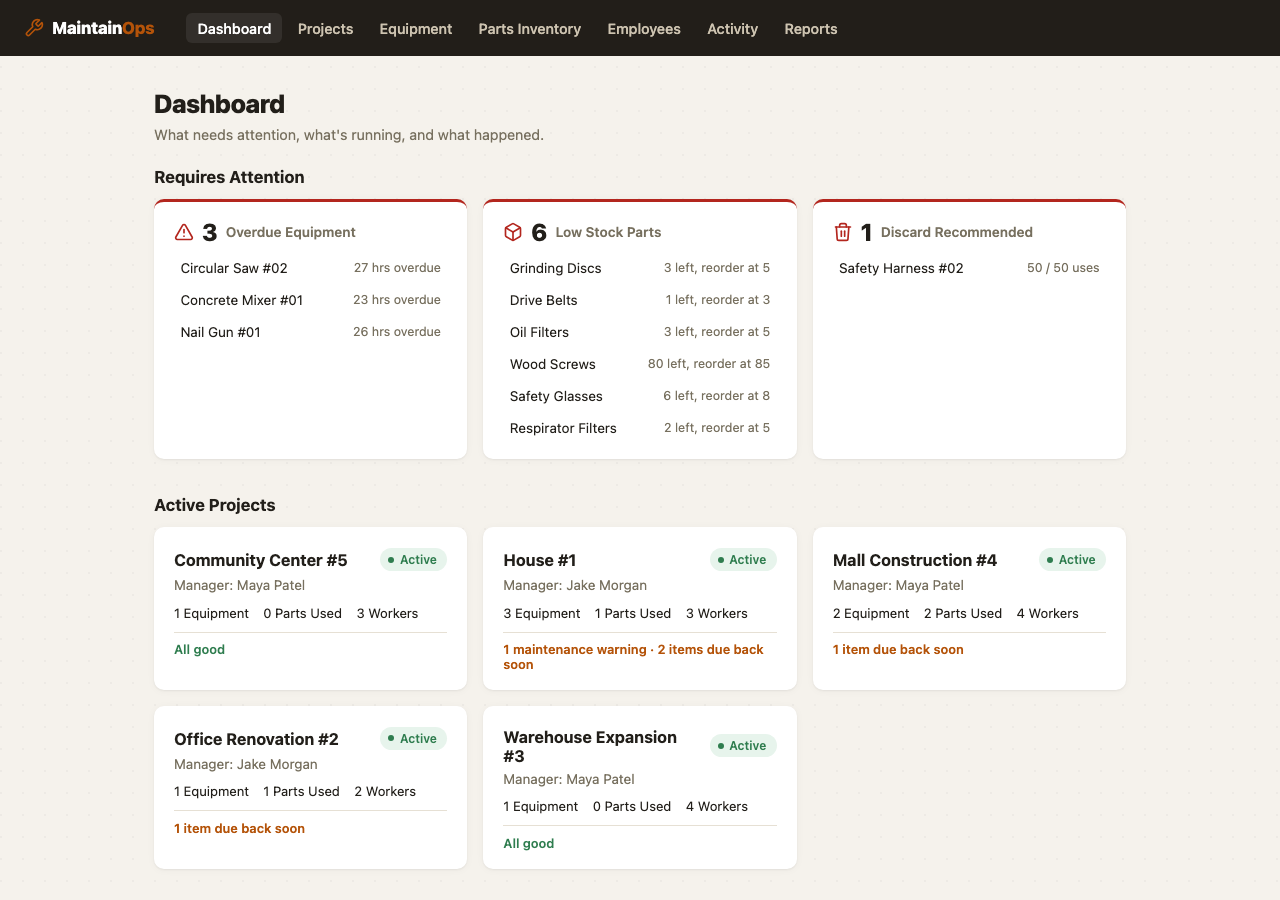
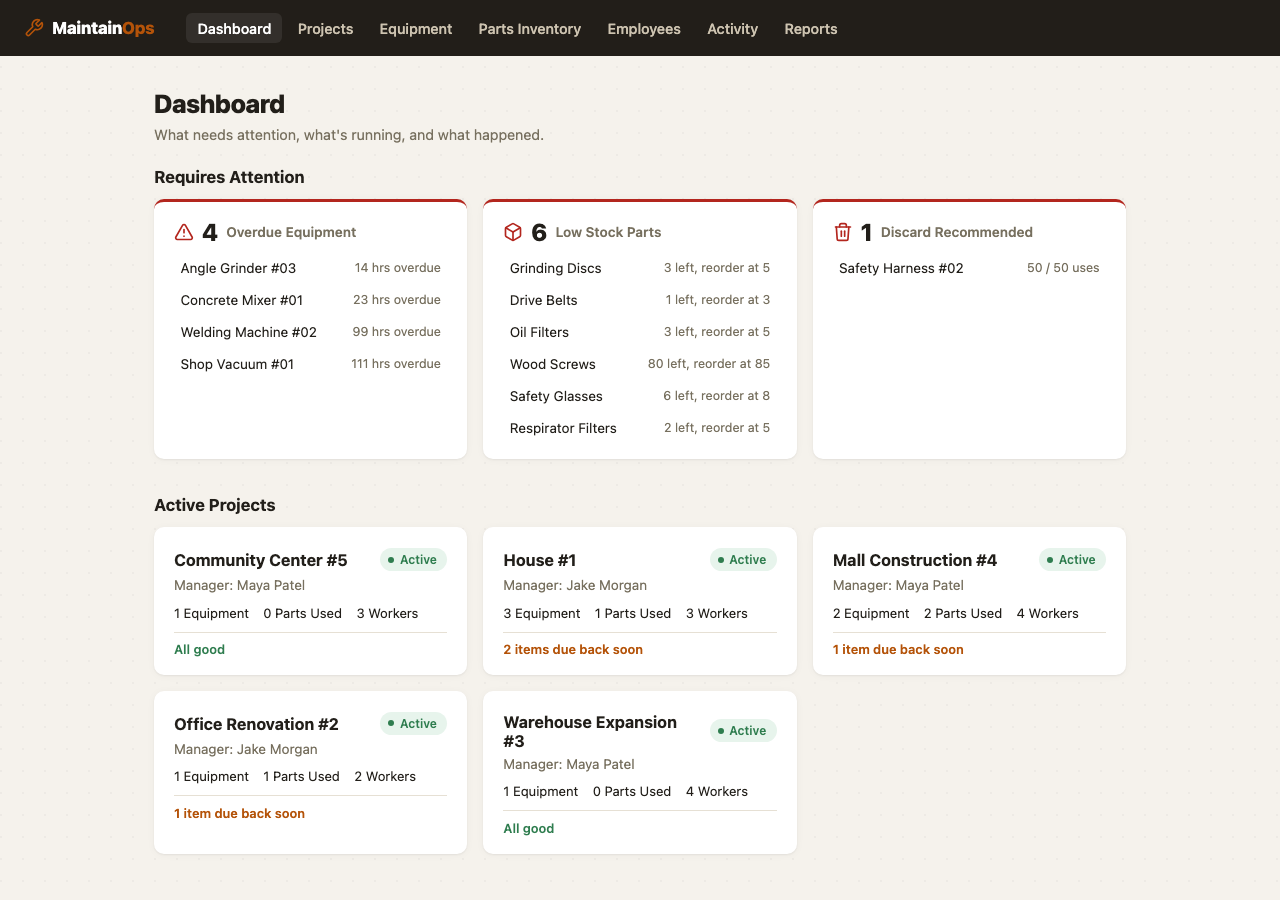
Give equipment real storage bay locations instead of one shared string
Every non-checked-out piece of equipment shared the exact same
"Garage / Storage" location, so the Dashboard's Equipment by Location
panel was one giant bar and nothing else -- not the kind of variety
a demo dataset is supposed to show. New Equipment's location field
had the same problem from the other direction: free text, so nothing
stopped a real deployment from ending up with "Garage", "garage
storage", and "Garage Storage 1" as three different locations that
all mean the same shelf.

Home location is a fixed set now -- Garage Storage #1 through #6 --
enforced as a dropdown on the New Equipment form instead of typed,
and the seed data distributes existing equipment across the same six
bays instead of dumping everything into one bucket. Both sides read
off the same naming convention on purpose, so a bay picked when
adding new equipment matches what's already sitting in the seeded
fleet.

Verified live: New Equipment's location field is a select defaulting
to Garage Storage #1, the seeded fleet is spread across all six bays,
and the Dashboard's Equipment by Location panel now shows a real
breakdown instead of one bar. 68 backend tests still pass; tsc -b
clean. Screenshots regenerated to match.

diff --git a/frontend/src/components/NewEquipmentForm.tsx b/frontend/src/components/NewEquipmentForm.tsx
@@ -2,6 +2,8 @@ import { useState } from "react";
 import { api, ApiError } from "../api/client";
 import type { Equipment, EquipmentStatus } from "../types";
 
+const STORAGE_BAYS = Array.from({ length: 6 }, (_, i) => `Garage Storage #${i + 1}`);
+
 export function NewEquipmentForm({
   onSuccess,
   onCancel,
@@ -11,7 +13,7 @@ export function NewEquipmentForm({
 }) {
   const [name, setName] = useState("");
   const [type, setType] = useState("");
-  const [location, setLocation] = useState("");
+  const [location, setLocation] = useState(STORAGE_BAYS[0]);
   const [status, setStatus] = useState<EquipmentStatus>("operational");
   const [usageHours, setUsageHours] = useState("0");
   const [intervalHours, setIntervalHours] = useState("");
@@ -58,13 +60,13 @@ export function NewEquipmentForm({
 
       <label>
         Home location
-        <input
-          type="text"
-          value={location}
-          onChange={(e) => setLocation(e.target.value)}
-          placeholder="e.g. Garage Back Storage 3"
-          required
-        />
+        <select value={location} onChange={(e) => setLocation(e.target.value)} required>
+          {STORAGE_BAYS.map((bay) => (
+            <option key={bay} value={bay}>
+              {bay}
+            </option>
+          ))}
+        </select>
       </label>
 
       <label>

diff --git a/backend/app/seed.py b/backend/app/seed.py
@@ -43,7 +43,7 @@ from .models import (
     ProjectStatus,
 )
 
-HOME_LOCATION = "Garage / Storage"
+STORAGE_BAYS = [f"Garage Storage #{i}" for i in range(1, 7)]
 
 
 def is_seeded(db: Session) -> bool:
@@ -170,12 +170,13 @@ def seed_demo_data(db: Session) -> None:
             fraction_of_interval = rng.uniform(0.05, 0.75)  # healthy
         usage_hours = Decimal(str(round(interval * fraction_of_interval, 1)))
         usage_count = rng.randint(0, max_usage - 3) if max_usage else 0
+        home_location = rng.choice(STORAGE_BAYS)
 
         eq = Equipment(
             name=name,
             type=type_,
-            location=HOME_LOCATION,
-            current_location=HOME_LOCATION,
+            location=home_location,
+            current_location=home_location,
             status=EquipmentStatus.OPERATIONAL,
             usage_hours=usage_hours,
             last_maintenance_usage_hours=Decimal("0"),

diff --git a/README.md b/README.md
@@ -56,7 +56,7 @@ right shelf. So checking equipment out is a first-class action, not an afterthou
 > **Borrowed by:** Priya Shah
 > **Expected return:** 9/4/2026
 
-Hit submit and the equipment's `current_location` moves from *Garage / Storage* to *House #1*
+Hit submit and the equipment's `current_location` moves from *Garage Storage #3* to *House #1*
 immediately — the equipment list, the equipment's own detail page, the project it now belongs
 to, the borrower's employee page, and the dashboard all reflect it without anyone touching a
 spreadsheet. Returning it moves the location back and closes out the loan.
@@ -166,6 +166,14 @@ same rule: Active Projects as cards with real computed metrics (no project card 
 that isn't backed by an actual query), a compact Equipment by Location bar list instead of a
 pie chart nobody needed, Due Soon sorted by nearest return with overdue-for-return visually
 distinct from merely-due-soon, and a Recent Activity feed at the bottom.
+
+Equipment's home location got the same treatment as manager/borrower — "Home location" on the
+New Equipment form is a dropdown of named storage bays (`Garage Storage #1` through `#6`), not
+free text, so equipment doesn't end up split across `Garage`, `garage storage`, and `Garage
+Storage 1` as three different locations that all mean the same shelf. The seeded equipment is
+distributed across the same bays for the same reason: piling everything into one generic
+"Garage / Storage" bucket made the Equipment by Location panel show one giant bar and nothing
+else worth looking at.
 
 ![Dashboard — requires attention, active projects, and what happened, all live](docs/screenshots/dashboard.png)
 
